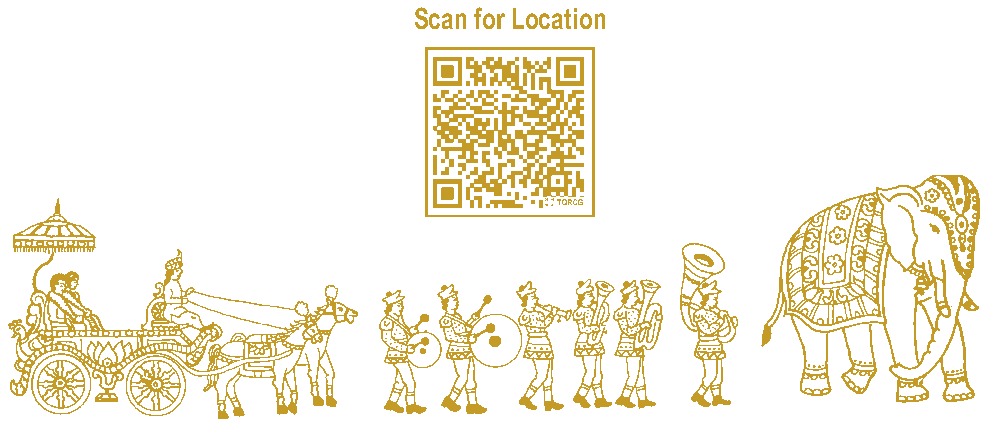
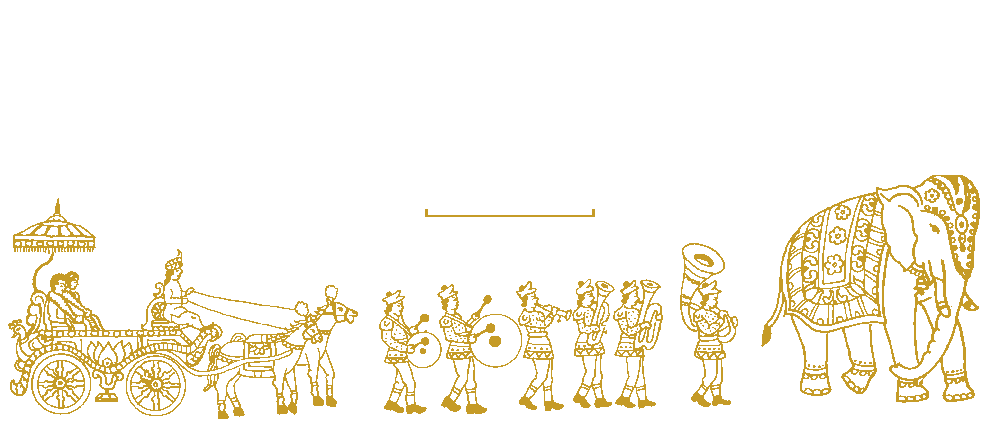
Remove QR and scan text from procession art, use single authentic temple background

Changed region(s): [[0.426, 0.0304, 0.6389, 0.4871]]

diff --git a/index.html b/index.html
@@ -66,13 +66,14 @@
       background: #180308;
     }
 
-    /* Authentic Temple Background (Visible with Warmth) */
+    /* Authentic Temple Background (Visible with Warmth, Single Authentic Architecture) */
     .temple-backdrop {
       position: absolute;
       inset: 0;
-      background-image: url('assets/temple_bg.jpeg?v=2');
+      background-image: url('assets/temple_bg.jpeg?v=3');
       background-size: cover;
-      background-position: center top;
+      background-position: center center;
+      background-repeat: no-repeat;
       opacity: 0.90;
       filter: saturate(1.05) contrast(1.06) brightness(0.94);
       pointer-events: none;
@@ -317,13 +318,6 @@
 
     /* Dual Spread Mode on Desktop (Sides 2 & 3 Unfolded) */
     @media (min-width: 860px) {
-      .temple-backdrop {
-        background-image: url('assets/temple_bg_desktop.jpg?v=2');
-        background-size: cover;
-        background-position: center center;
-        opacity: 0.92;
-      }
-
       .book-container.mode-inside {
         width: min(94vw, 880px) !important;
       }
